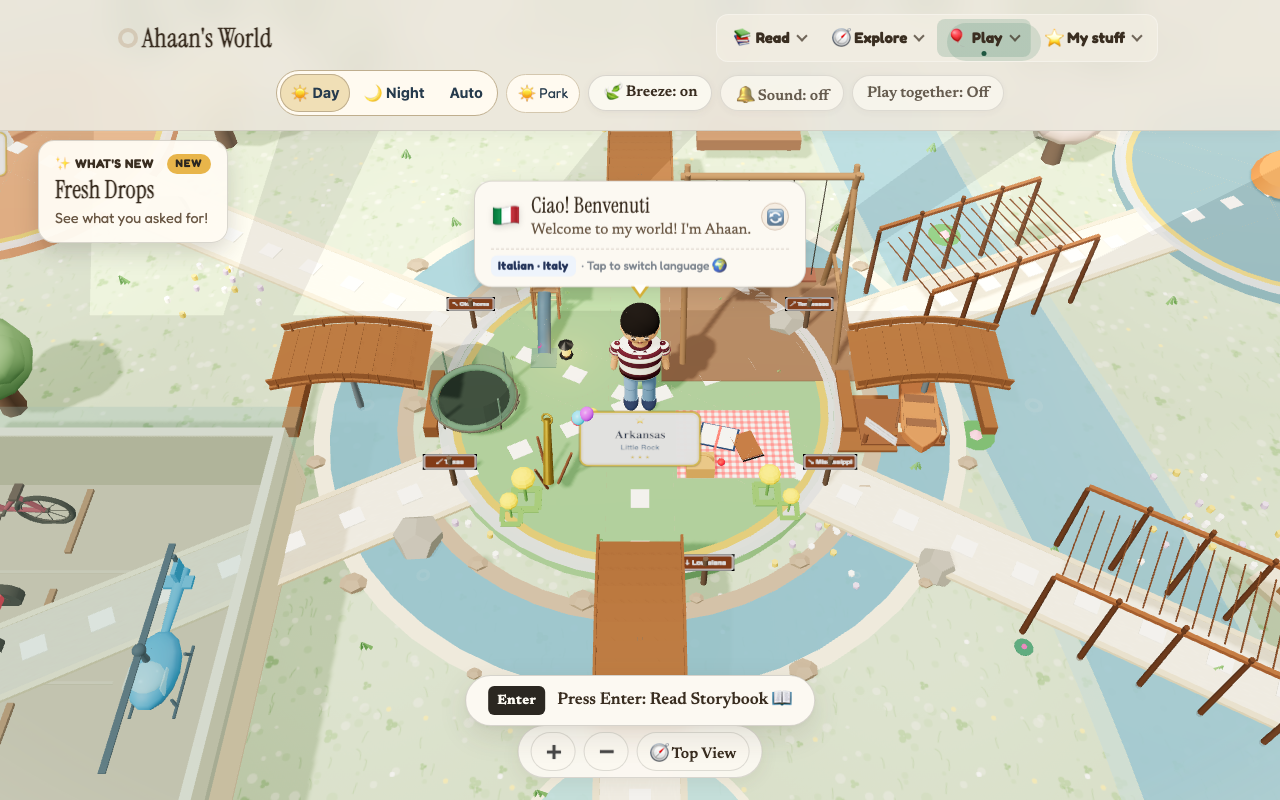
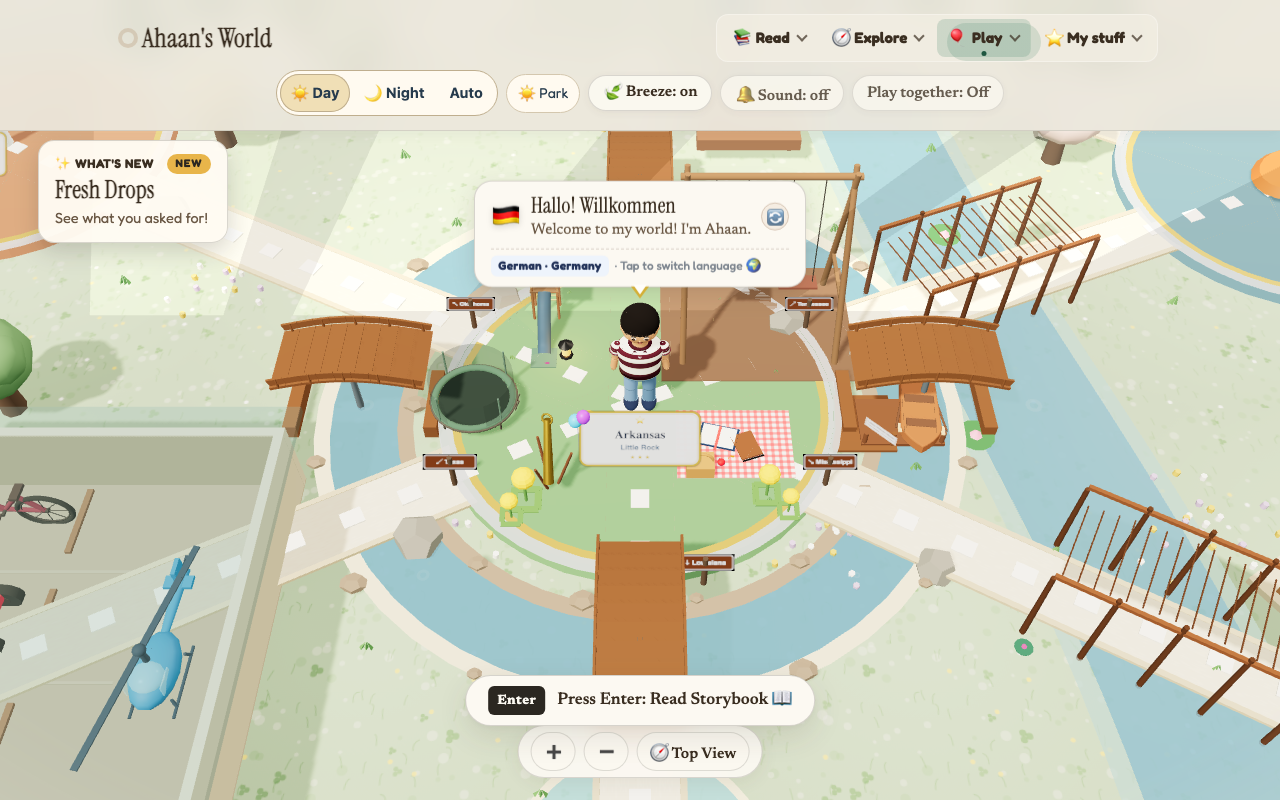
Save live Park realism screenshot

diff --git a/HANDOFF.md b/HANDOFF.md
@@ -1741,8 +1741,12 @@ When one job finishes, start the next brief without waiting. Update this HANDOFF
 - Inspected final desktop and mobile screenshots. Evidence: `/tmp/ahaan-park-realism/final/day-1280.png` and `day-390.png`.
 - Optional bloom was skipped. The headless baseline measured 6 FPS desktop and 8 FPS mobile, so an extra full-screen pass has no performance headroom here.
 - Headless frame samples are comparison data. They do not confirm real-device frame rate.
-- Added the Nov 27 Fresh Drops card and Park rides NEW dates. Added a local screenshot preview at `public/fresh-drops/2026-11-27-park-realism.png`.
+- Added the Nov 27 Fresh Drops card and Park rides NEW dates. Replaced the local screenshot with the live desktop screenshot at `public/fresh-drops/2026-11-27-park-realism.png`.
 - The Park realism and Fresh Drops browser check passed at desktop and mobile sizes. The card date and NEW badge passed. The image loaded, and horizontal overflow and browser errors were empty.
 - Updated `tests/water-park-fresh-drops-browser.cjs` for the new first card and home date. Its desktop and mobile regression check passed.
 - Local Fresh Drops screenshots: `/tmp/ahaan-park-realism/final-check/fresh-drops-1280.png` and `fresh-drops-390.png`.
-- Next: publish the verified change, replace the local screenshot preview with the live screenshot, and run the live checks.
+- Commit `ccd9d92` (`Improve Park realism and Fresh Drops`) was pushed to main. Pages run `46052679329` succeeded.
+- Live desktop and mobile checks passed. Park day/night/rain states passed, the Fresh Drops card and screenshot loaded, NEW appeared, and browser errors were empty.
+- Live screenshots: `/tmp/ahaan-park-realism/live/day-1280.png`, `day-390.png`, `fresh-drops-1280.png`, and `fresh-drops-390.png`.
+- `tests/park-realism-browser.cjs` now accepts `BASE_URL` for local and live checks.
+- Next: publish the live screenshot replacement and run the final live Fresh Drops check.
